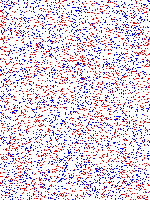
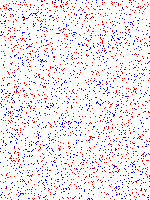
3 modif

Changed region(s): [[0.0, 0.0, 1.0, 1.0]]

diff --git a/sem2/lab3/functions.py b/sem2/lab3/functions.py
@@ -1,14 +1,22 @@
 from tkinter import messagebox
 from PIL import Image
 from tkinter import filedialog as fd
+import tkinter as tk
+import os.path
 
-# Возвращает абсолютный путь до файла, или None при ошибке
-def open_file():
+def show_image(path):
+    if os.path.isfile(path) and path.split(".")[-1] == "bmp":
+        img = Image.open(path)
+        img.show()
+
+
+def open_file(path_label):
     filename = fd.askopenfilename(title="Выберите фото для скрытия сообщения")
     if filename.split('.')[-1] != "bmp":
         messagebox.showerror("Ошибка", "Выбран не bpm файл")
-        return None
-    return filename
+        return
+    path_label.delete(0, tk.END)
+    path_label.insert(0, filename)
 
 # Возвращает абсолютный путь до файла, или None при ошибке
 def save_file():
@@ -21,7 +29,10 @@ def save_file():
 # по текстовому сообщению возвращает список его битов
 def encode_message_to_bit(message):
     bit_message = []
-    byte_message = message.encode("ASCII") + b'\x00'
+    try:
+        byte_message = message.encode("ASCII") + b'\x00'
+    except:
+        return None
     for byte in byte_message:
         bit_message += list(int(b) for b in bin(byte)[2:].zfill(8))
     return bit_message
@@ -31,12 +42,14 @@ def change_bit(byte: int, bit: int):
     return byte & ~1 | bit
 
 
-def hide_message(message):
-    filename = open_file()
-    if filename == None:
+def hide_message(filename, message):
+    if not os.path.isfile(filename) or filename.split('.')[-1] != "bmp":
         return
 
     bit_message = encode_message_to_bit(message)
+    if bit_message == None:
+        messagebox.showerror("Ошибка", "Невозможно закодировать ASCII кодом")
+        return
 
     img = Image.open(filename)
     width, height = img.size
@@ -57,9 +70,9 @@ def hide_message(message):
             message_index += 1
             pixel[1] = change_bit(pixel[1], bit_message[message_index])
             message_index += 1
-            if (pixel_index + 1) % 3 != 0: # байт синего цвета каждого 3 пикселя не меняется
-                pixel[2] = change_bit(pixel[2], bit_message[message_index])
-                message_index += 1
+            # Меняем все байты
+            pixel[2] = change_bit(pixel[2], bit_message[message_index])
+            message_index += 1
         pixel_index += 1
         new_pixels.append(tuple(pixel))
 
@@ -69,19 +82,18 @@ def hide_message(message):
         img.save(path_to_save)
 
 
-def get_message(label):
-    filename = open_file()
-    if filename == None:
+def get_message(filename, label):
+    if not os.path.isfile(filename) or filename.split('.')[-1] != "bmp":
         return
 
     message = ''
     img = Image.open(filename)
-    pixels = img.tobytes()
+    pixels_bytes = img.tobytes()
 
-    for i in range(0, len(pixels), 9):
+    for i in range(0, len(pixels_bytes), 8):
         byte = ''
         for j in range(i, i + 8):
-            byte += bin(pixels[j])[-1]
+            byte += bin(pixels_bytes[j])[-1]
 
         if byte == '0' * 8:
             break

diff --git a/sem2/lab3/interface.py b/sem2/lab3/interface.py
@@ -3,29 +3,50 @@ from tkinter import ttk
 from functions import *
 
 root = tk.Tk()
-root.geometry("400x200")
-root.minsize(400, 200)
+root.geometry("700x300")
+root.minsize(700, 300)
 
-# ---------Создание Сетки -----------------
-for c in range(2): root.columnconfigure(index=c, weight=1)
-for r in range(4): root.rowconfigure(index=r, weight=1)
+#  Создание Сетки
+for c in range(4): root.columnconfigure(index=c, weight=1)
+for r in range(6): root.rowconfigure(index=r, weight=1)
 
-# --------- Создание кнопок, поля ввода и поля вывода --------------------
+# Создание кнопок, поля ввода и поля вывода
 
 ttk.Label(root, text='Введите сообщение:').grid(column=0, row=0)
 message_entry = ttk.Entry(root)
-message_entry.grid(column=1, row=0, sticky='ew')
+message_entry.grid(column=1, row=0, sticky='ew', columnspan=2)
 
-hide_btn = ttk.Button(root, text='Скрыть сообщение', command=lambda: hide_message(message_entry.get()))
-hide_btn.grid(column=0, row=1, columnspan=2)
+ttk.Label(root, text='Скрыть:').grid(column=0, row=1)
+image_path = ttk.Entry(root)
+image_path.grid(column=1, row=1, sticky='ew')
+choose_img_path = ttk.Button(root, text="Выбрать", command=lambda: open_file(image_path))
+choose_img_path.grid(column=2, row=1, sticky='ew')
 
-pull_btn = ttk.Button(root, text='Извлечь сообщение', command=lambda: get_message(message_label))
-pull_btn.grid(column=0, row=2, columnspan=2)
+open_img = ttk.Button(text="Открыть", command=lambda: show_image(image_path.get()))
+open_img.grid(column=3, row=1, sticky='ew')
 
-ttk.Label(root, text='Полученное сообщение:').grid(column=0, row=3)
+
+hide_btn = ttk.Button(root, text='Скрыть сообщение',
+                      command=lambda: hide_message(image_path.get(), message_entry.get()))
+hide_btn.grid(column=0, row=2, columnspan=3)
+
+ttk.Label(root, text='Извлечь:').grid(column=0, row=3)
+res_path = ttk.Entry(root)
+res_path.grid(column=1, row=3, sticky='ew')
+choose_res_path = ttk.Button(root, text="Выбрать", command=lambda: open_file(res_path))
+choose_res_path.grid(column=2, row=3, sticky='ew')
+
+open_res = ttk.Button(text="Открыть", command=lambda: show_image(res_path.get()))
+open_res.grid(column=3, row=3, sticky='ew')
+
+
+pull_btn = ttk.Button(root, text='Извлечь сообщение',
+                      command=lambda: get_message(res_path.get(), message_label))
+pull_btn.grid(column=0, row=4, columnspan=3)
+
+ttk.Label(root, text='Полученное сообщение:').grid(column=0, row=5)
 message_label = ttk.Label(root)
-message_label.grid(column=1, row=3, sticky='ew')
-
+message_label.grid(column=1, row=5, sticky='ew', columnspan=2)
 
 
 root.mainloop()

diff --git a/sem2/lab3.2/functions.py b/sem2/lab3.2/functions.py
@@ -13,7 +13,6 @@ COLORS = {
     }
 
 def create_img(width, height, capacity):
-
     img = Image.new("RGB", (width, height), "white")
 
     for color in COLORS.values():
@@ -41,9 +40,9 @@ def classify_img(k):
 
     pixels = img.load()
 
+    # разбиваем точки по классам
     black_pixels = [] # (x, y)
     colored_pixels = [] # (color, (x, y))
-    # разбиваем точки по классам
     for x in range(width):
         for y in range(height):
             color = pixels[x, y]
@@ -59,21 +58,14 @@ def classify_img(k):
             distances.append((distance_square(black, cords), color))
 
         distances = [i[1] for i in sorted(distances)[:min(k, len(colored_pixels))]]
-        if distances.count(COLORS["red"]) > distances.count(COLORS["blue"]):
+        red_near = distances.count(COLORS["red"])
+        blue_near = distances.count(COLORS["blue"])
+        if red_near >= blue_near:
             pixels[black] = COLORS["red"]
         else:
             pixels[black] = COLORS["blue"]
 
     img.save(CLASSIFIED_PATH)
     img.show()
-
-
-
-
-
-
-
-
-
 
 

diff --git a/sem2/lab3.2/interface.py b/sem2/lab3.2/interface.py
@@ -33,7 +33,7 @@ for r in range(6): root.rowconfigure(index=r, weight=1)
 
 labels = ["Ширина изображения:", "Высота изображения:", "Мощность множества:"]
 
-entries_defaults = ["150", "200", "2000", "10"]
+entries_defaults = ["150", "200", "1000", "10"]
 entries = []
 for i in range(3):
     ttk.Label(text=labels[i]).grid(column=0, row=i)
